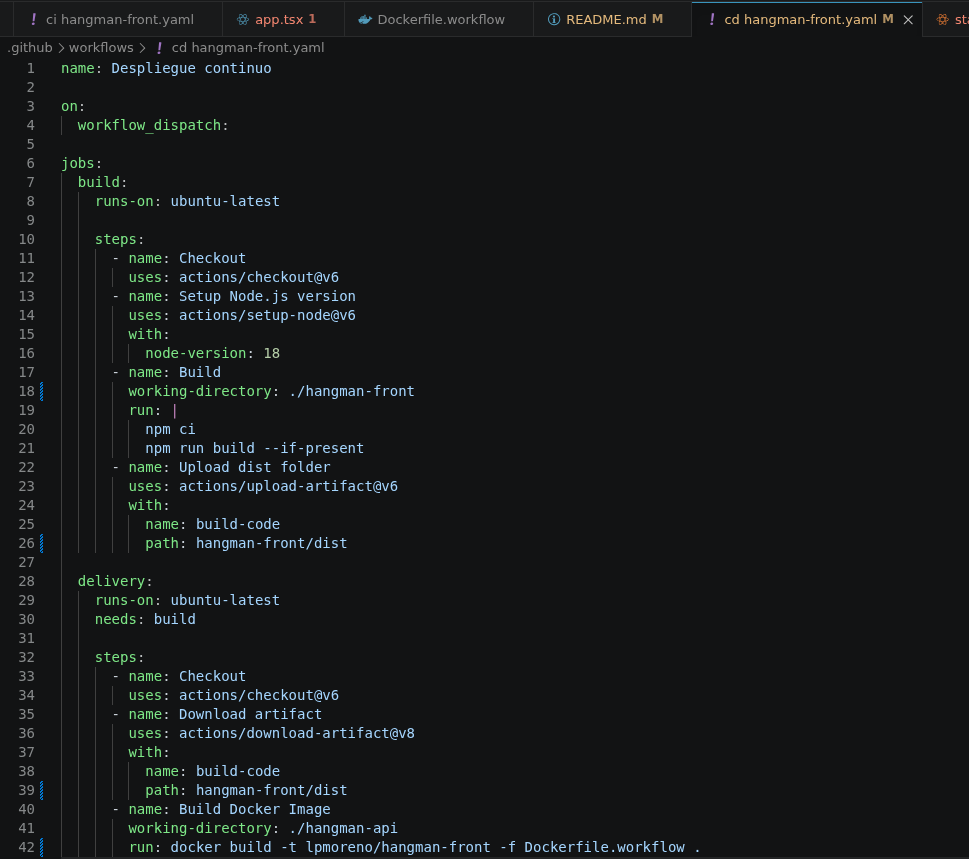
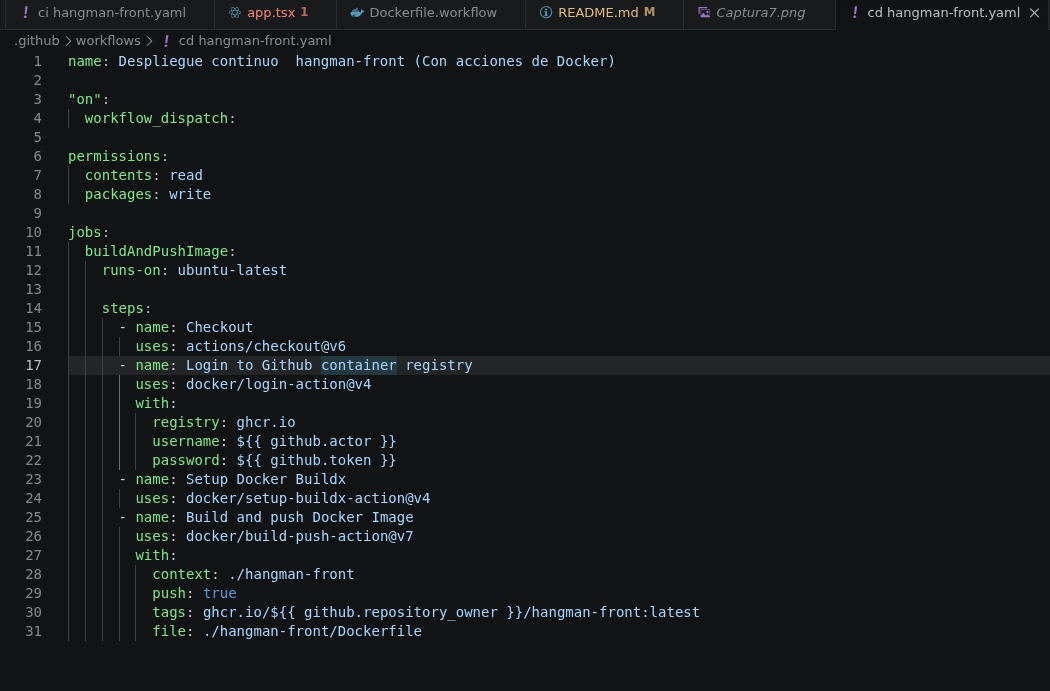
Fix errors 5

diff --git a/README.md b/README.md
@@ -19,11 +19,19 @@ Corregimos el código, y volvemos a lanzar el ci, que finaliza correctamente:
 
 ![Imagen 4.](Capturas/Captura4.png)
 ![Imagen 5.](Capturas/Captura5.png)
+![Imagen 7.](Capturas/Captura7.png)
 
 # Workflow para el ejecutar el CD del proyecto de frontend
 
 Pasamos ahora al continuous delivery.
 
 Creamos el archivo que realizará el despliegue:
+![Imagen 6.](Capturas/Captura6.png)
 
+Tras corregir algunos errores en el archivo yaml, conseguimos ejectutar correctamente la acción CD:
+![Imagen 8.](Capturas/Captura8.png)
+
+
+Podemos descargar el artifact generado desde la siguiente URL:
+https://github.com/lpmoreno/curso_githubactions/actions/runs/26367393576/artifacts/7186871836
 
